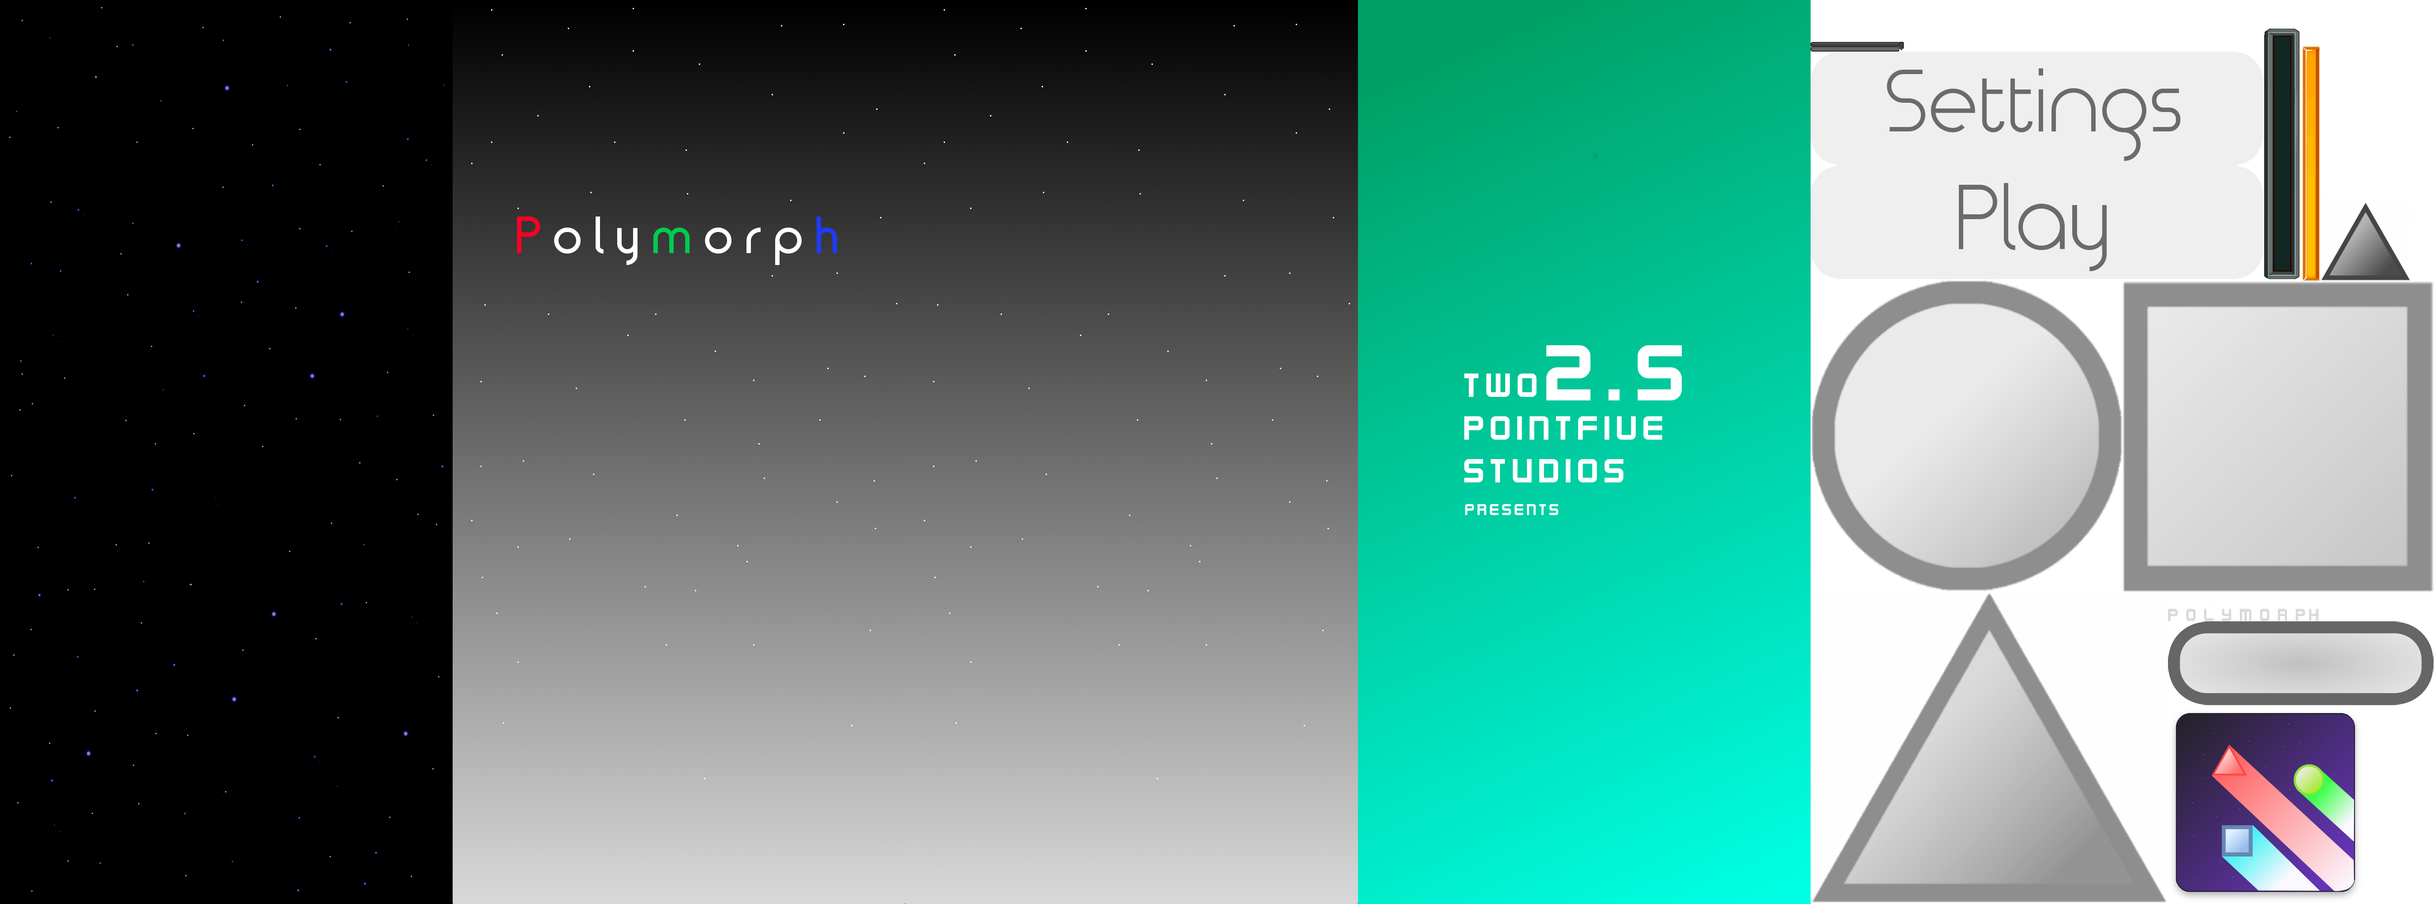
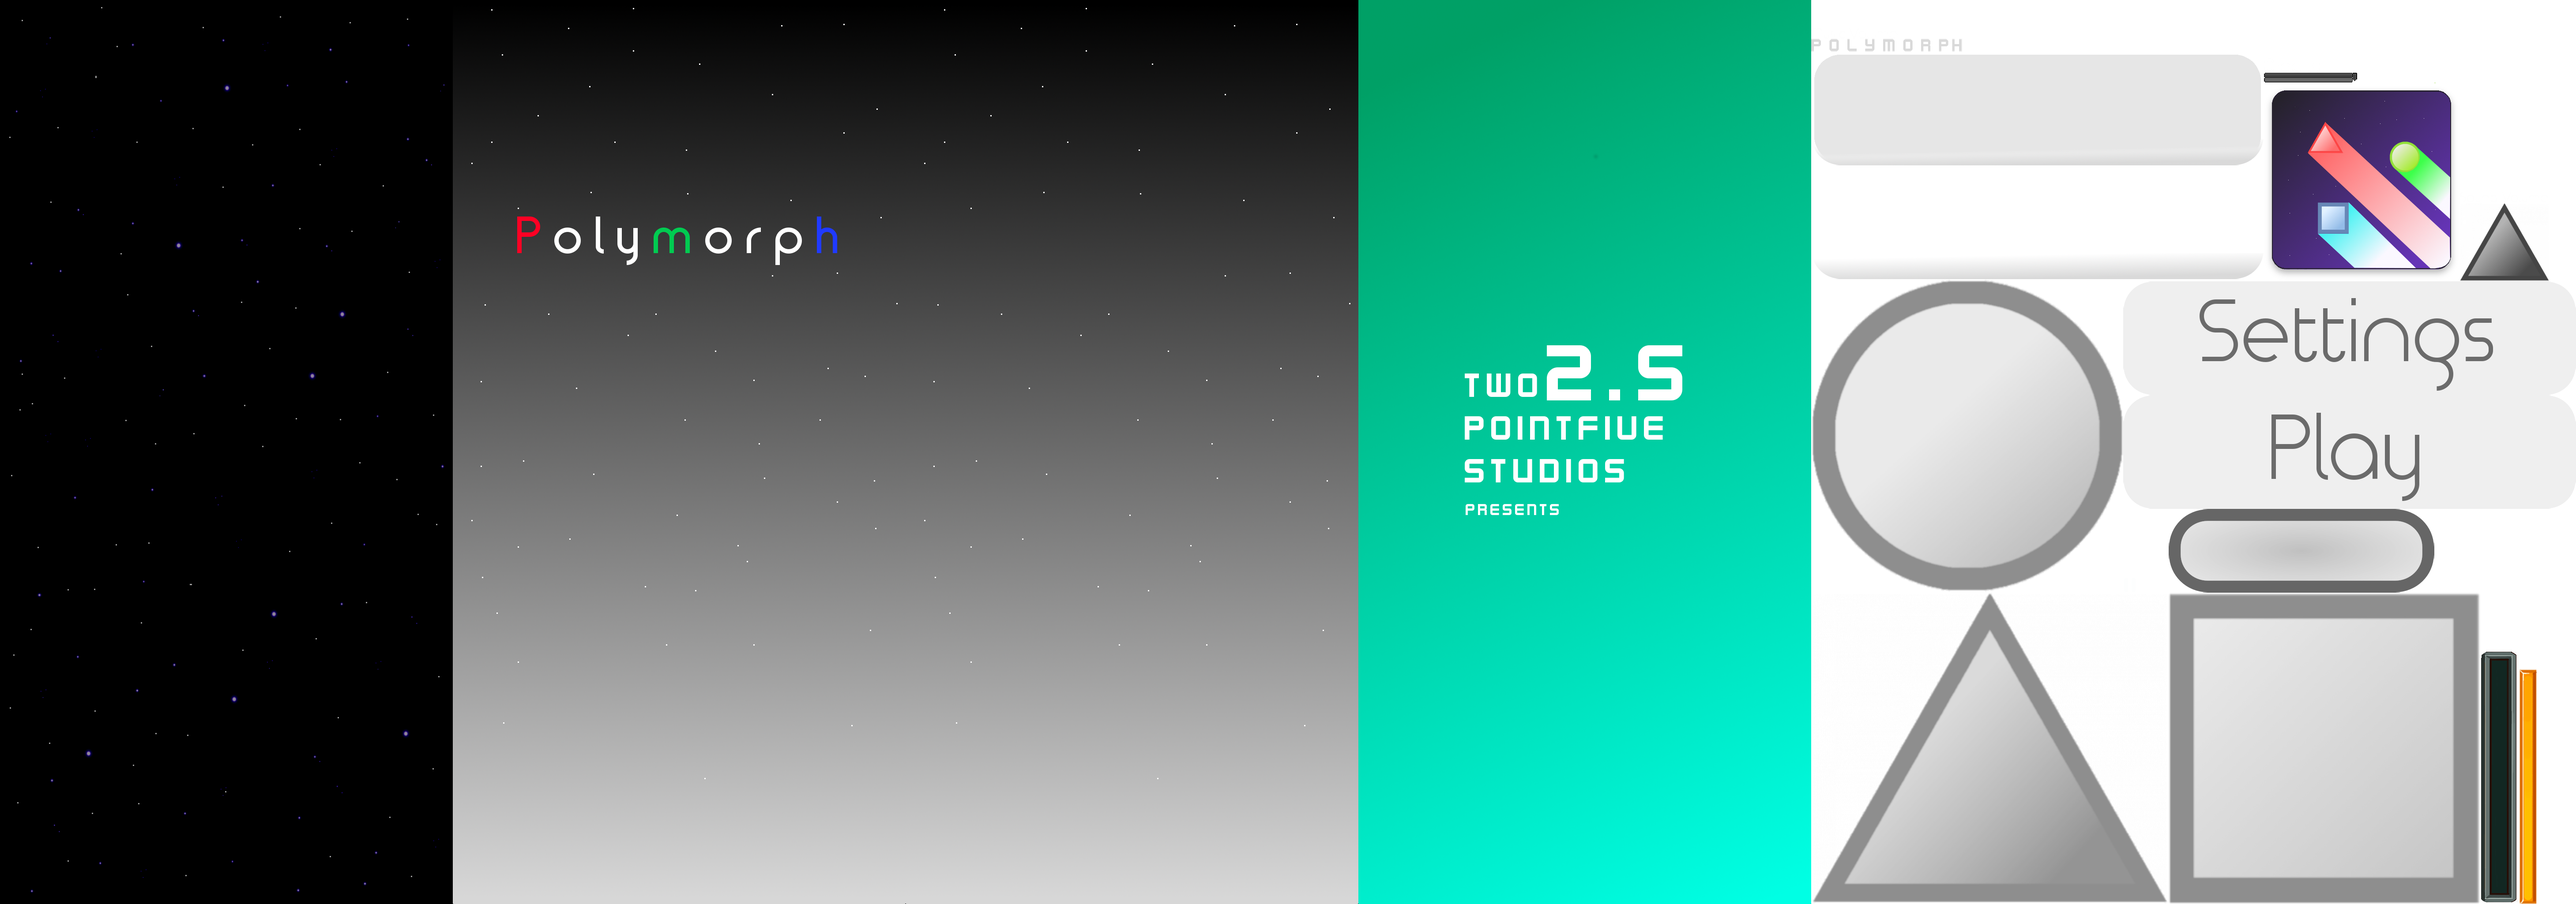
Added updated button textures and changed color scheme

Changed region(s): [[0.53, 0.0, 1.0, 1.0], [0.1559, 0.1249, 0.3429, 1.0]]

diff --git a/core/src/durianhln/polymorph/screen/MainMenu.java b/core/src/durianhln/polymorph/screen/MainMenu.java
@@ -48,40 +48,52 @@ public class MainMenu implements Screen {
         Skin buttonSkin = new Skin();
         buttonSkin.addRegions(textureAtlas);
 
-        ImageButton playButton = new ImageButton(buttonSkin.getDrawable("playbutton"),
-                buttonSkin.getDrawable("playbutton"));
+        ImageButton playButton = new ImageButton(buttonSkin.getDrawable("buttontemplate"),
+                buttonSkin.getDrawable("downbuttontemplate"));
         playButton.setSize(4 * Polymorph.WORLD_WIDTH / 5, Polymorph.WORLD_HEIGHT / 8);
         playButton.setPosition(Polymorph.WORLD_WIDTH / 2 - playButton.getWidth() / 2, Polymorph.WORLD_HEIGHT / 2);
         playButton.addListener(new InputListener() {
             @Override
             public boolean touchDown(InputEvent event, float x, float y, int pointer, int button) {
+                return true;
+            }
+
+            @Override
+            public void touchUp(InputEvent event, float x, float y, int pointer, int button) {
                 polymorph.setScreen(new GameScreen(polymorph));
                 mainMenuMusic.stop();
-                return true;
             }
         });
 
-        ImageButton settingsButton = new ImageButton(buttonSkin.getDrawable("settingsbutton"),
-                buttonSkin.getDrawable("settingsbutton"));
+        ImageButton settingsButton = new ImageButton(buttonSkin.getDrawable("buttontemplate"),
+                buttonSkin.getDrawable("downbuttontemplate"));
         settingsButton.setSize(4 * Polymorph.WORLD_WIDTH / 5, Polymorph.WORLD_HEIGHT / 8);
         settingsButton.setPosition(playButton.getX(), playButton.getY() - 5 * playButton.getHeight() / 4);
         settingsButton.addListener(new InputListener() {
             @Override
             public boolean touchDown(InputEvent event, float x, float y, int pointer, int button) {
+                return true;
+            }
+
+            @Override
+            public void touchUp(InputEvent event, float x, float y, int pointer, int button) {
                 polymorph.setScreen(new SettingsScreen(polymorph));
-                return false;
             }
         });
 
         // change to another button
-        ImageButton otherButton = new ImageButton(buttonSkin.getDrawable("settingsbutton"),
-                buttonSkin.getDrawable("settingsbutton"));
+        ImageButton otherButton = new ImageButton(buttonSkin.getDrawable("buttontemplate"),
+                buttonSkin.getDrawable("downbuttontemplate"));
         otherButton.setSize(4 * Polymorph.WORLD_WIDTH / 5, Polymorph.WORLD_HEIGHT / 8);
         otherButton.setPosition(settingsButton.getX(), settingsButton.getY() - 5 * settingsButton.getHeight() / 4);
         otherButton.addListener(new InputListener() {
             @Override
             public boolean touchDown(InputEvent event, float x, float y, int pointer, int button) {
                 return false;
+            }
+
+            @Override
+            public void touchUp(InputEvent event, float x, float y, int pointer, int button) {
             }
         });
 
@@ -92,6 +104,10 @@ public class MainMenu implements Screen {
             @Override
             public boolean touchDown(InputEvent event, float x, float y, int pointer, int button) {
                 return false;
+            }
+
+            @Override
+            public void touchUp(InputEvent event, float x, float y, int pointer, int button) {
             }
         });
 

diff --git a/core/src/durianhln/polymorph/gameobject/ShapeColor.java b/core/src/durianhln/polymorph/gameobject/ShapeColor.java
@@ -8,9 +8,9 @@ import com.badlogic.gdx.graphics.g2d.TextureRegion;
  * @author Evan
  */
 public enum ShapeColor {
-    RED(new Color(1, 0.3f, 0, 0.7f)),
-    GREEN(new Color(0, 1, 0.5f, 0.7f)),
-    BLUE(new Color(0, 0.5f, 1, 0.7f));
+    RED(new Color(1, 0.2f, 0.6f, 0.9f)),
+    GREEN(new Color(0, 1, 0, 0.9f)),
+    BLUE(new Color(0, 1, 1, 0.9f));
 
     public final Color color;
     private TextureRegion texture;
